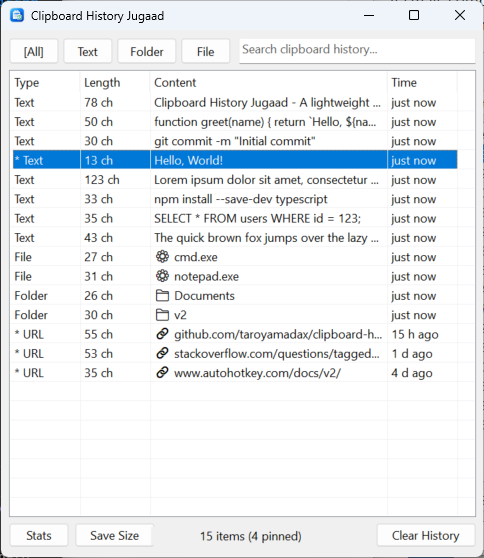
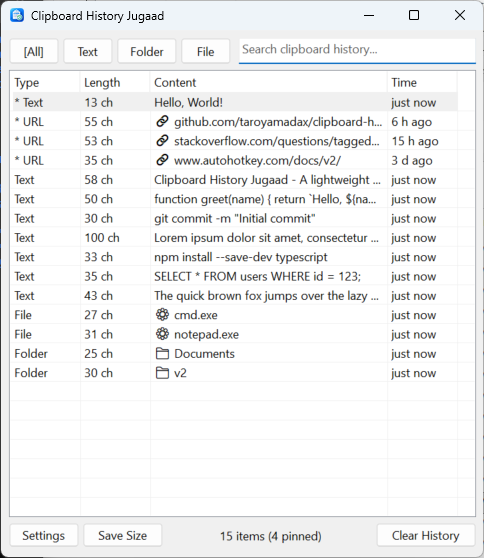
v1.3.0 - Add Settings dialog for UI-based configuration

diff --git a/README.md b/README.md
@@ -7,6 +7,8 @@ inspired by the old (small-window) version of *Clipboard History Mini*.
 
 ![Screenshot](screenshot.png)
 
+![Settings](screenshot-settings.png)
+
 "Jugaad" (जुगाड़) is Hindi for a clever, make-do fix built from whatever is at
 hand — which is exactly what this tool is.
 
@@ -46,8 +48,12 @@ faster search and offline-only history, this tool is for you.
 - **Open** launches the shell: folders in Explorer, files in their default
   app, URLs in the default browser
 - History persisted to `history.json` next to the script
-- **Auto-expiry**: non-pinned items older than 24 h are deleted at startup
-  and hourly thereafter (pinned items are kept forever)
+- **Auto-expiry**: non-pinned items older than 1 day (configurable) are deleted
+  at startup and hourly thereafter (pinned items are kept forever)
+- **Settings** button to configure options without editing the script:
+  - Remember window position (on/off)
+  - Auto-purge expired items (on/off)
+  - Expiry period in days
 - Tray menu toggle to **run at startup** (Windows login)
 - **Save Size** button to persist window size (position auto-saved on close)
 
@@ -144,6 +150,11 @@ Edit the `CFG` object at the top of `ClipboardHistoryJugaad.ahk`:
 | `purgeOnStartup` | enable auto-expiry (startup + hourly) | `true`   |
 | `saveFile`    | history JSON path                    | script dir |
 | `winStateFile`| window size/position JSON path       | script dir |
+| `configFile`  | user settings JSON path              | script dir |
+
+The three settings `rememberPos`, `expireHours`, and `purgeOnStartup` can also
+be changed via the **Settings** button in the UI — no need to edit the script.
+Changed values are saved to `config.json`.
 
 ## Type auto-detection
 
@@ -180,7 +191,7 @@ To stop the history growing without bound, non-pinned items older than
   tray instance keeps itself tidy even if the PC is never restarted).
 - **What survives**: pinned items are never deleted regardless of age. Items
   with a blank timestamp are also kept (their age can't be judged).
-- **Measure**: strictly 24 h of elapsed time (not a calendar-day boundary) —
-  an item copied at 09:00 expires at 09:00 the next day.
+- **Measure**: elapsed time based on the configured expiry period — an item
+  copied at 09:00 expires at 09:00 after the set number of days.
 - **Disable**: set `purgeOnStartup: false` in the `CFG` block (no code
   removal needed); tune the lifetime with `expireHours`.
